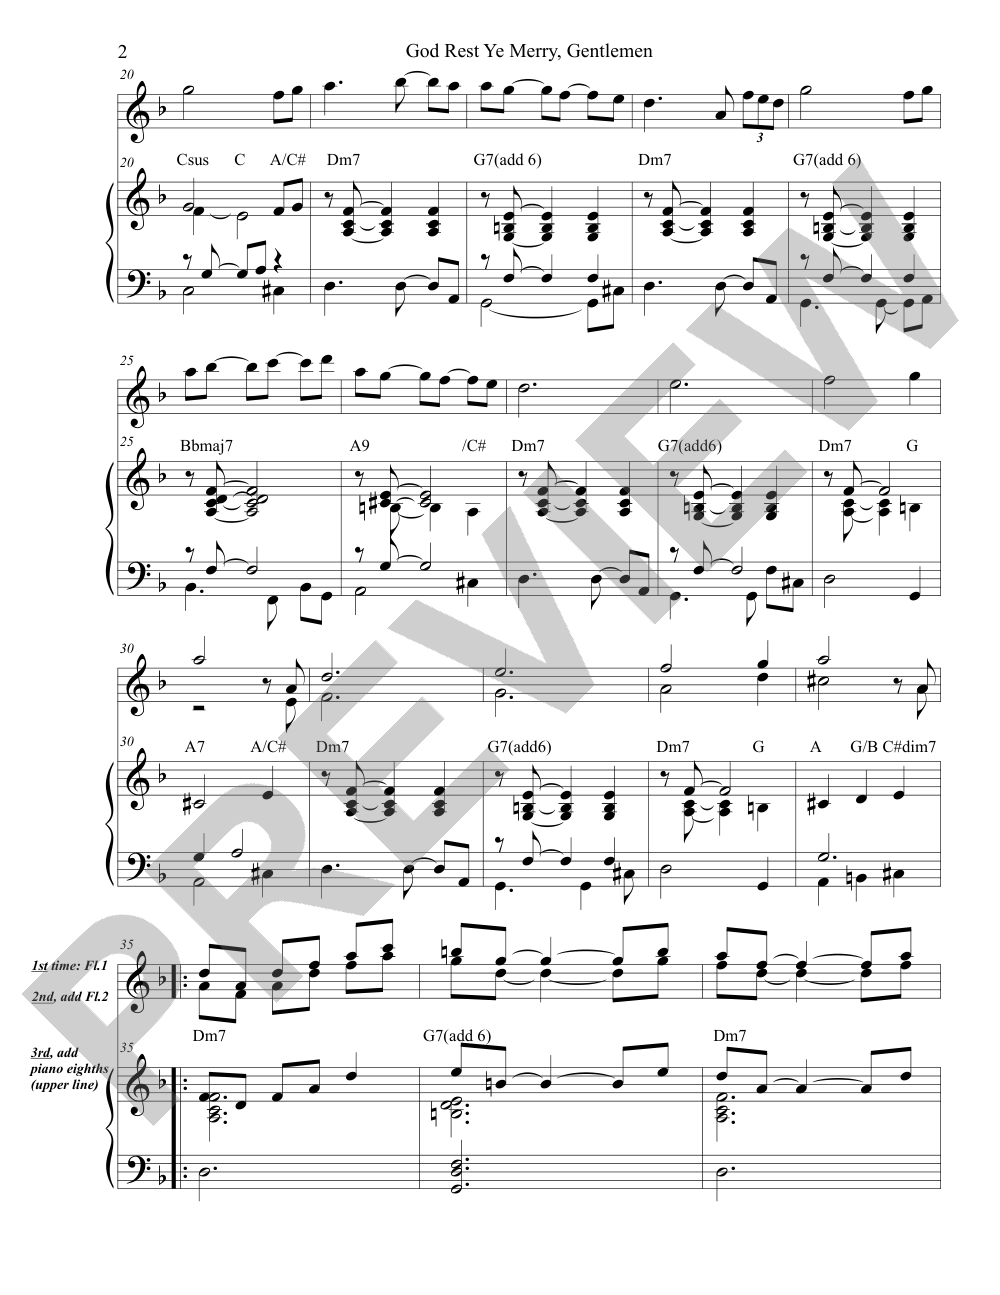
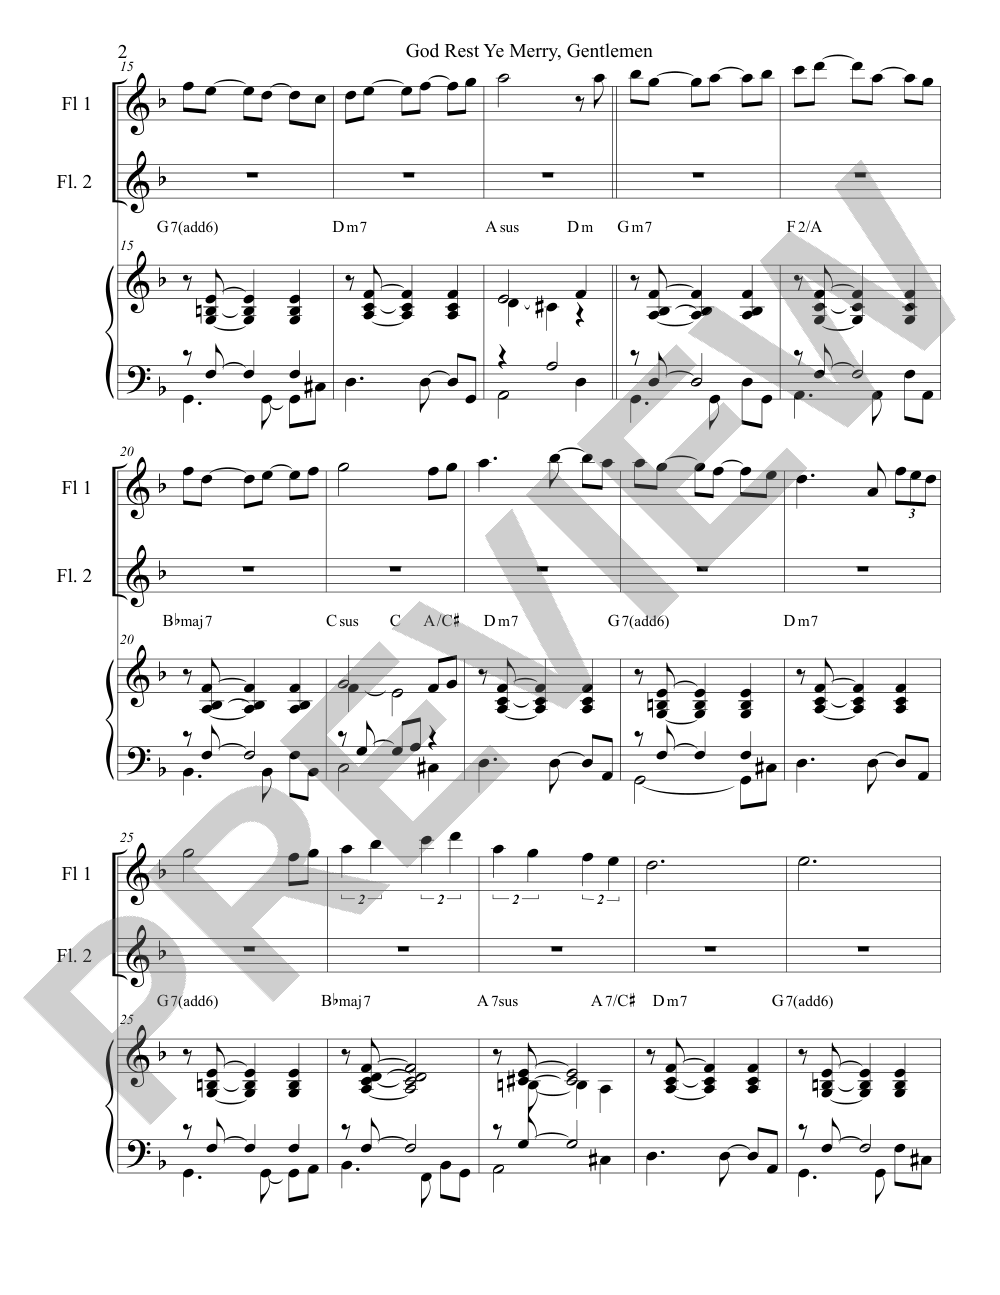
Jeff's 11-27 (12am) corrections: re-render previews
Re-render previews from Jeff's corrected PDFs (email 2026-11-27 06:00Z):
- Had I Been There That Christmas Night
- The Name of the Lord
- God Rest Ye Merry, Gentlemen (flutes)
- Child of Mary, Softly Sleeping (new D edition with chords; E-flat
  key to follow as a Payhip variant)

Claude-Session: https://claude.ai/code/session_01NLNP7uTKiusiijeGjiF1md

Changed region(s): [[0.031, 0.0309, 0.961, 0.9266]]

diff --git a/catalog/within-a-crib-my-saviour-lay-a-cappella.html b/catalog/within-a-crib-my-saviour-lay-a-cappella.html
@@ -1,0 +1,150 @@
+<!DOCTYPE html>
+<html lang="en">
+<head>
+  <meta charset="UTF-8">
+  <meta name="viewport" content="width=device-width, initial-scale=1.0">
+  <title>Within a Crib My Saviour Lay — Jeff Devine</title>
+  <meta name="description" content="Within a Crib My Saviour Lay (SATB a cappella) — sheet music by Jeff Devine. Timothy Dudley-Smith Hymn Settings.">
+  <meta name="author" content="Jeff Devine">
+  <meta name="robots" content="index, follow">
+  <link rel="canonical" href="https://jeffdevinemusic.com/catalog/within-a-crib-my-saviour-lay-a-cappella.html">
+  <meta name="theme-color" content="#F8F5F0">
+  <link rel="stylesheet" href="../css/styles.css?v=8">
+  <noscript><link rel="stylesheet" href="../css/themes/theme-default.css"></noscript>
+  <meta property="og:type" content="website">
+  <meta property="og:site_name" content="Jeff Devine Music">
+  <meta property="og:title" content="Within a Crib My Saviour Lay — Jeff Devine">
+  <meta property="og:description" content="Within a Crib My Saviour Lay (SATB a cappella) — sheet music by Jeff Devine. Timothy Dudley-Smith Hymn Settings.">
+  <meta property="og:url" content="https://jeffdevinemusic.com/catalog/within-a-crib-my-saviour-lay-a-cappella.html">
+  <meta property="og:image" content="https://jeffdevinemusic.com/assets/previews/within-a-crib-my-saviour-lay-a-cappella/within-a-crib-my-saviour-lay-a-cappella-p1.png">
+  <meta name="twitter:card" content="summary_large_image">
+  <meta name="twitter:title" content="Within a Crib My Saviour Lay — Jeff Devine">
+  <meta name="twitter:description" content="Within a Crib My Saviour Lay (SATB a cappella) — sheet music by Jeff Devine. Timothy Dudley-Smith Hymn Settings.">
+  <meta name="twitter:image" content="https://jeffdevinemusic.com/assets/previews/within-a-crib-my-saviour-lay-a-cappella/within-a-crib-my-saviour-lay-a-cappella-p1.png">
+  <script type="application/ld+json">
+{
+  "@context": "https://schema.org",
+  "@type": "Product",
+  "name": "Within a Crib My Saviour Lay",
+  "description": "Within a Crib My Saviour Lay (SATB a cappella) — sheet music by Jeff Devine. Timothy Dudley-Smith Hymn Settings.",
+  "image": [
+    "https://jeffdevinemusic.com/assets/previews/within-a-crib-my-saviour-lay-a-cappella/within-a-crib-my-saviour-lay-a-cappella-p1.png"
+  ],
+  "category": "Timothy Dudley-Smith Hymn Settings",
+  "brand": {
+    "@type": "Person",
+    "name": "Jeff Devine"
+  },
+  "additionalProperty": [
+    {
+      "@type": "PropertyValue",
+      "name": "Voicing",
+      "value": "SATB"
+    },
+    {
+      "@type": "PropertyValue",
+      "name": "Accompaniment",
+      "value": "A cappella"
+    },
+    {
+      "@type": "PropertyValue",
+      "name": "Key",
+      "value": "A"
+    },
+    {
+      "@type": "PropertyValue",
+      "name": "Year",
+      "value": "2013"
+    }
+  ],
+  "offers": {
+    "@type": "Offer",
+    "url": "https://jeffdevinemusic.com/catalog/within-a-crib-my-saviour-lay-a-cappella.html",
+    "priceCurrency": "USD",
+    "price": "2.00",
+    "availability": "https://schema.org/InStock"
+  }
+}
+  </script>
+</head>
+<body>
+
+  <nav class="nav">
+    <a href="../index.html" class="nav__logo">Jeff <em>Devine</em></a>
+    <div class="nav__right">
+      <ul class="nav__links">
+        <li><a href="../index.html#about">About</a></li>
+        <li><a href="../catalog.html" class="nav__link--active">Catalog</a></li>
+        <li><a href="../index.html#recordings">Recordings</a></li>
+        <li><a href="../index.html#contact">Contact</a></li>
+      </ul>
+    </div>
+  </nav>
+
+  <section class="page-header page-header--compact">
+    <div class="container">
+      <div class="page-header__inner">
+        <div class="label reveal">Timothy Dudley-Smith Hymn Settings</div>
+        <div class="rule reveal"></div>
+        <h1 class="reveal">Within a Crib My Saviour Lay</h1>
+      </div>
+    </div>
+  </section>
+
+  <section class="piece-page">
+    <div class="container">
+      <p class="reveal"><a href="../catalog.html">&larr; Back to Catalog</a></p>
+      <div class="piece-page__grid">
+
+        <div class="piece-page__main">
+          <div class="piece-preview-gallery">
+            <div class="piece-preview-gallery__main">
+              <img src="../assets/previews/within-a-crib-my-saviour-lay-a-cappella/within-a-crib-my-saviour-lay-a-cappella-p1.png" alt="Within a Crib My Saviour Lay sheet music preview, page 1 — Jeff Devine" id="gallery-main-img">
+            </div>
+          </div>
+        </div>
+
+        <aside class="piece-page__sidebar">
+          <div class="buy-box">
+            <div class="buy-box__price">$2 <span class="buy-box__unit">per copy</span></div>
+            <label class="buy-box__field"><span>Copies</span><input type="number" data-qty min="5" max="299" step="1" value="5" inputmode="numeric"></label>
+            <button type="button" class="btn btn--primary buy-box__cta" data-cart-add data-key="hi5FJ" data-title="Within a Crib My Saviour Lay (A cappella)" data-price="2" data-per-copy data-min-qty="5">Add to Cart</button>
+            <p class="buy-box__note">Instant PDF download after checkout.</p>
+            <p class="buy-box__license">Priced per copy (minimum 5): buy one for each singer. Your purchase covers printing that many copies.</p>
+          </div>
+          <div class="piece-details">
+            <div class="piece-details__row"><span>Voicing</span><span>SATB</span></div>
+            <div class="piece-details__row"><span>Accompaniment</span><span>A cappella</span></div>
+            <div class="piece-details__row"><span>Key</span><span>A</span></div>
+            <div class="piece-details__row"><span>Season</span><span>Advent</span></div>
+            <div class="piece-details__row"><span>Year</span><span>2013</span></div>
+          </div>
+        </aside>
+
+      </div>
+    </div>
+  </section>
+
+  <footer class="footer">
+    <div class="container">
+      <div class="footer__inner">
+        <div>
+          <div class="footer__logo"></div>
+          <div class="footer__notes"></div>
+        </div>
+        <ul class="footer__links">
+          <li><a href="../index.html#about">About</a></li>
+          <li><a href="../catalog.html">Catalog</a></li>
+          <li><a href="../index.html#recordings">Recordings</a></li>
+          <li><a href="../index.html#contact">Contact</a></li>
+        </ul>
+      </div>
+    </div>
+  </footer>
+
+  <script src="../js/config.js"></script>
+  <script src="../js/main.js"></script>
+  <script src="../js/cart.js?v=4"></script>
+  <script src="../js/gallery.js"></script>
+</body>
+</html>
